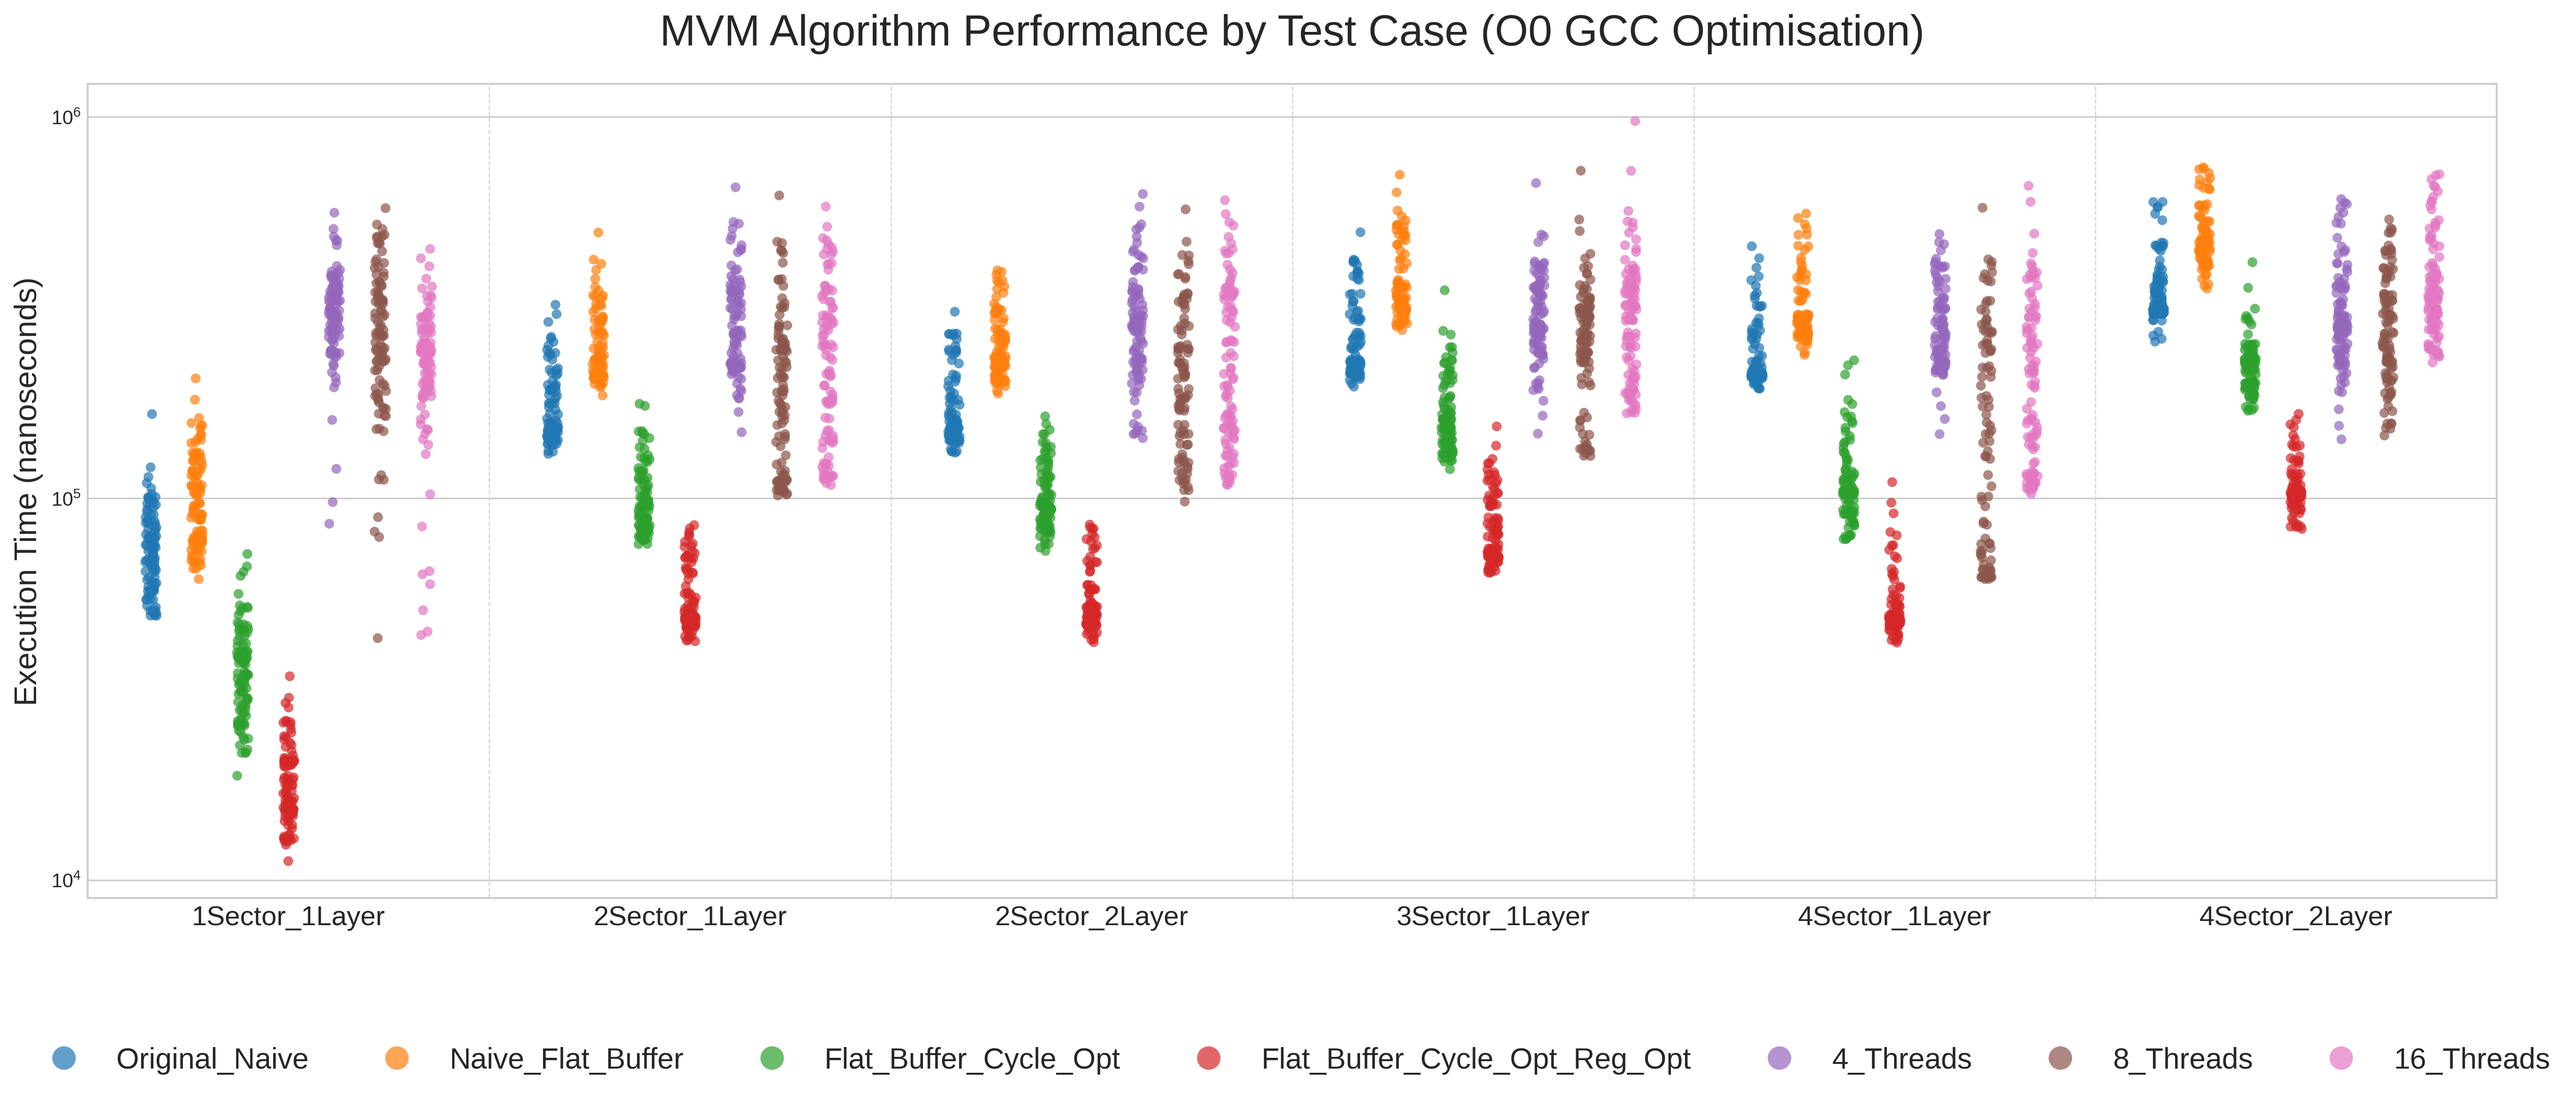
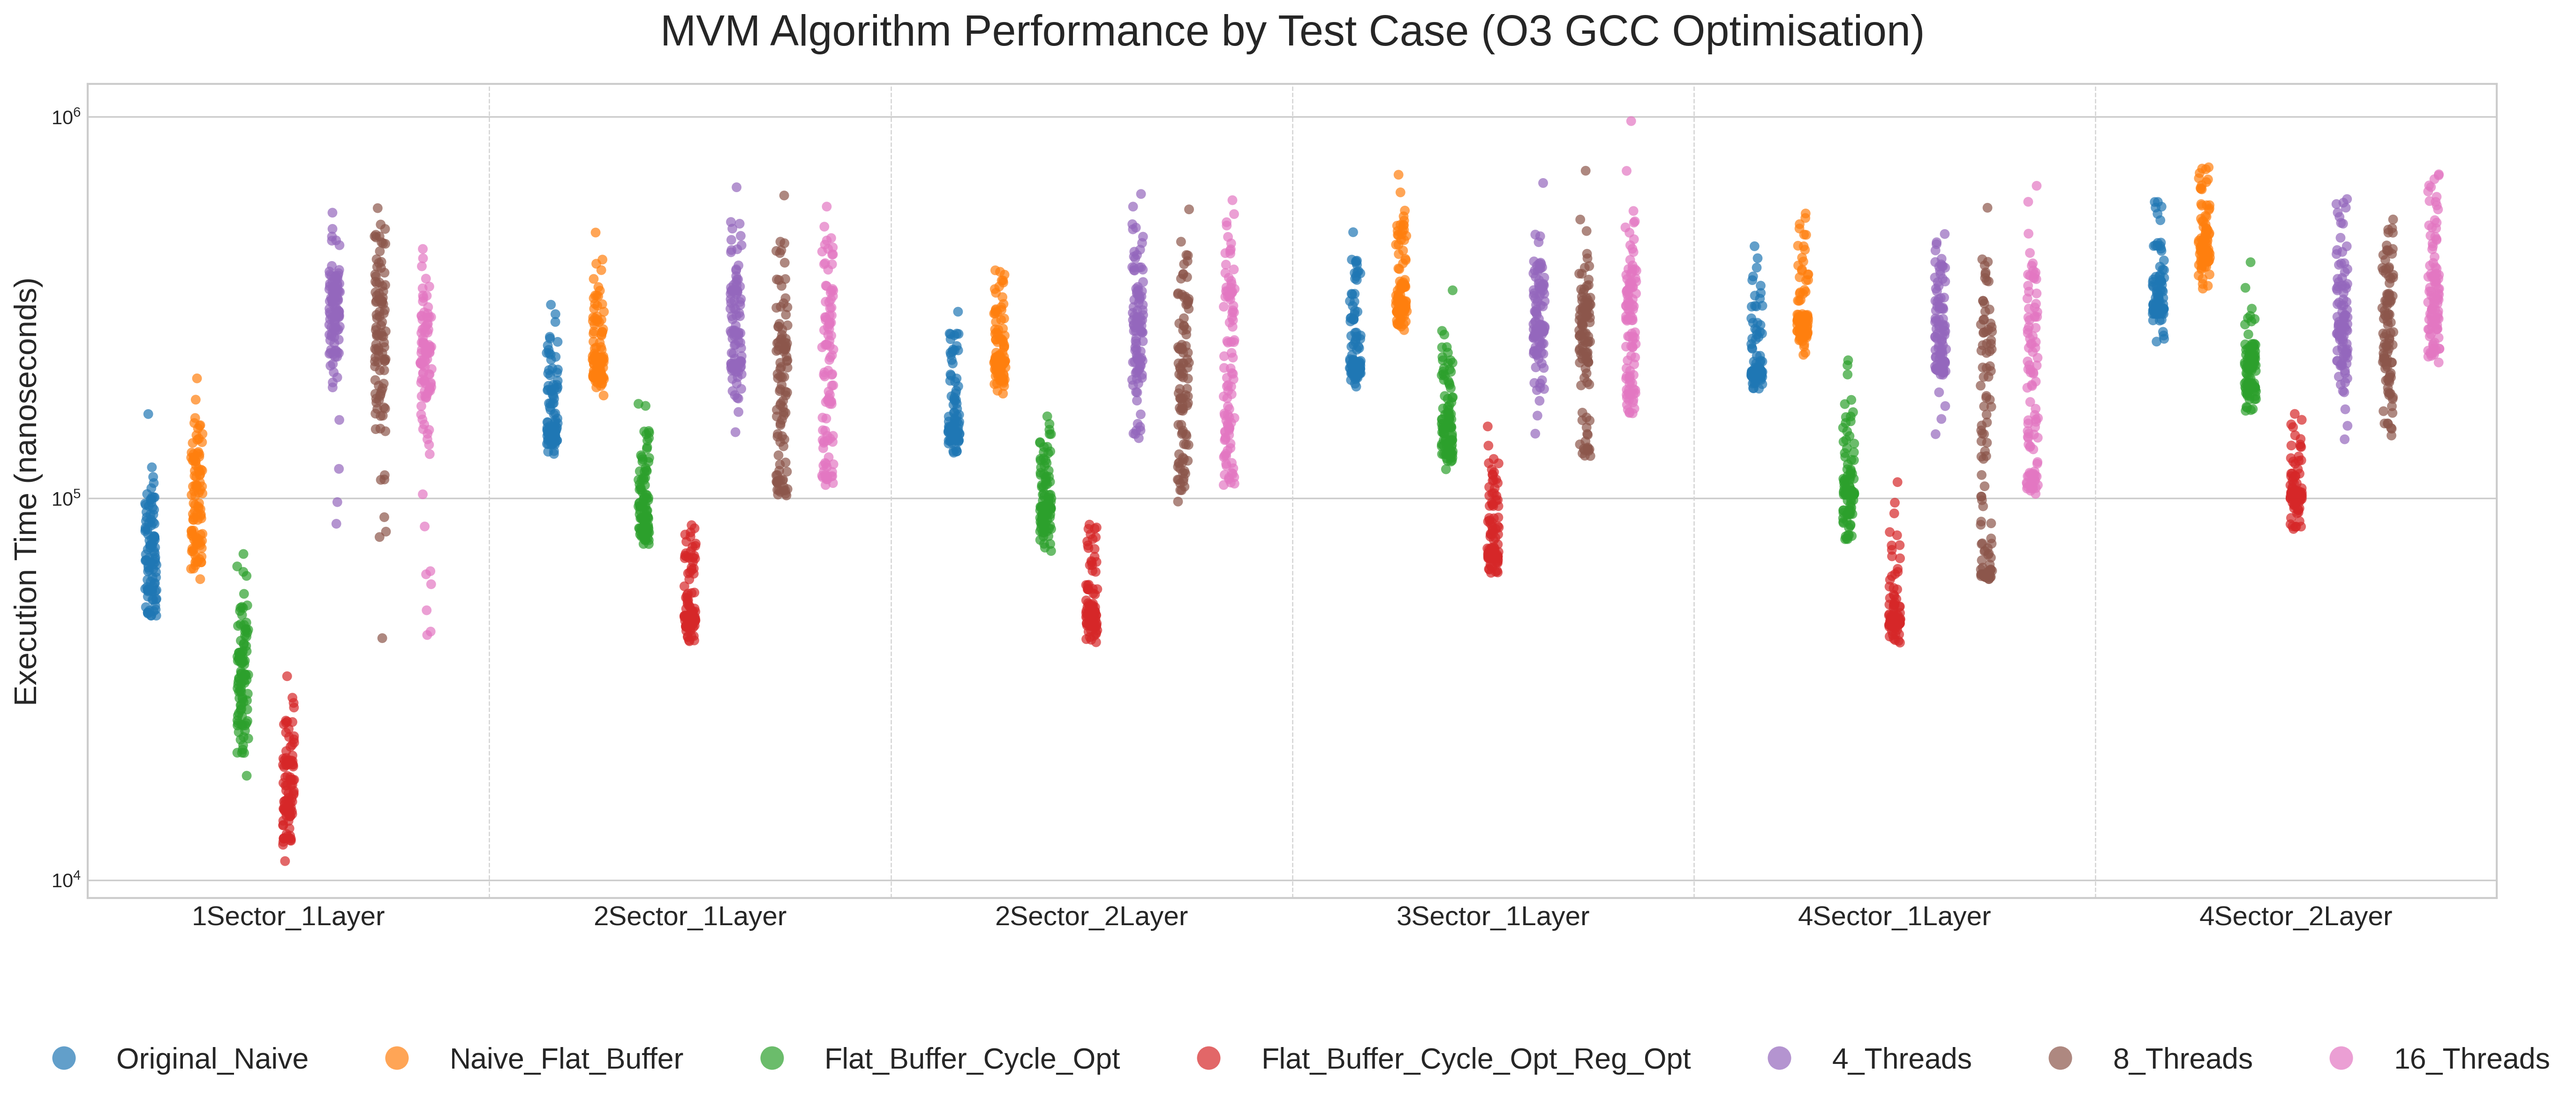
typo

diff --git a/matrix_comp_tests/new_mvm_full_o/plots.py b/matrix_comp_tests/new_mvm_full_o/plots.py
@@ -152,7 +152,7 @@ def create_dispersion_plot():
                   jitter=True, dodge=True, alpha=0.7, size=5)
 
     # --- 3. Customize the plot ---
-    ax.set_title('MVM Algorithm Performance by Test Case (O0 GCC Optimisation)', fontsize=22, pad=20)
+    ax.set_title('MVM Algorithm Performance by Test Case (O3 GCC Optimisation)', fontsize=22, pad=20)
     ax.set_xlabel('') # Remove x-axis label
     ax.set_ylabel('Execution Time (nanoseconds)', fontsize=16)
     ax.set_yscale('log') # Use a logarithmic scale for better visibility
